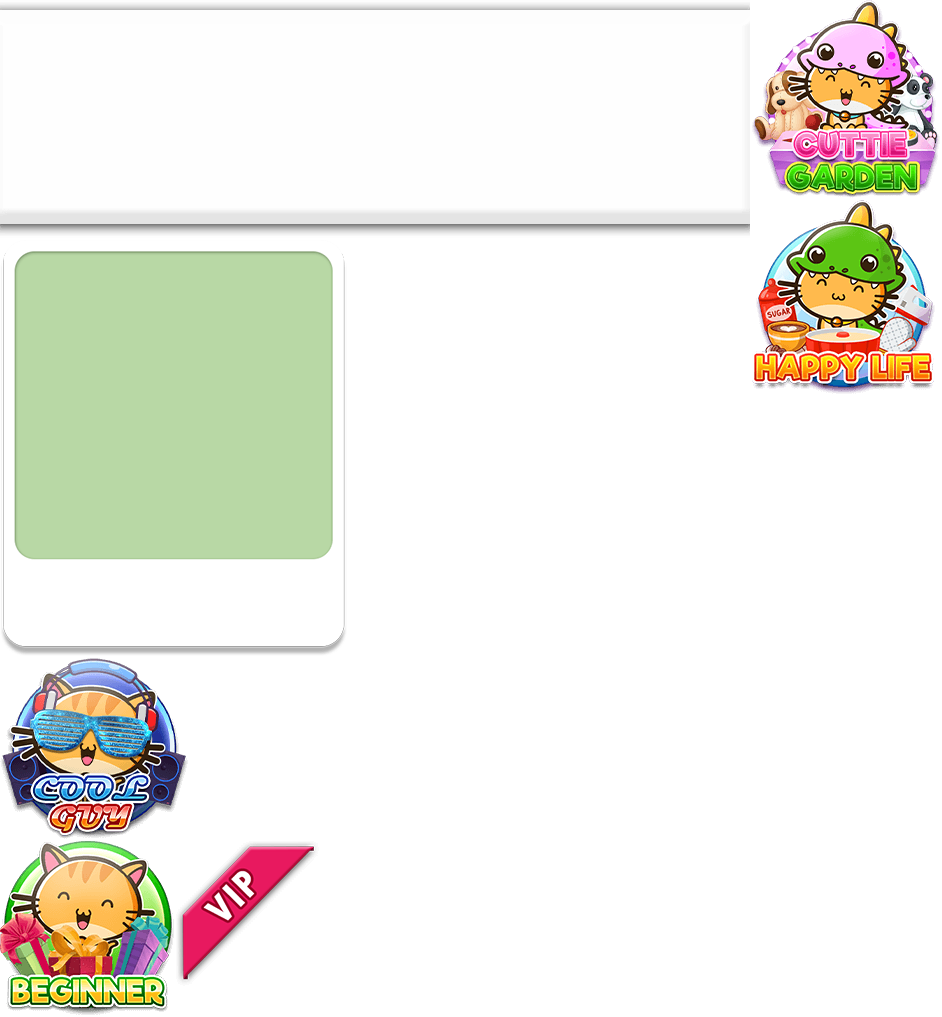
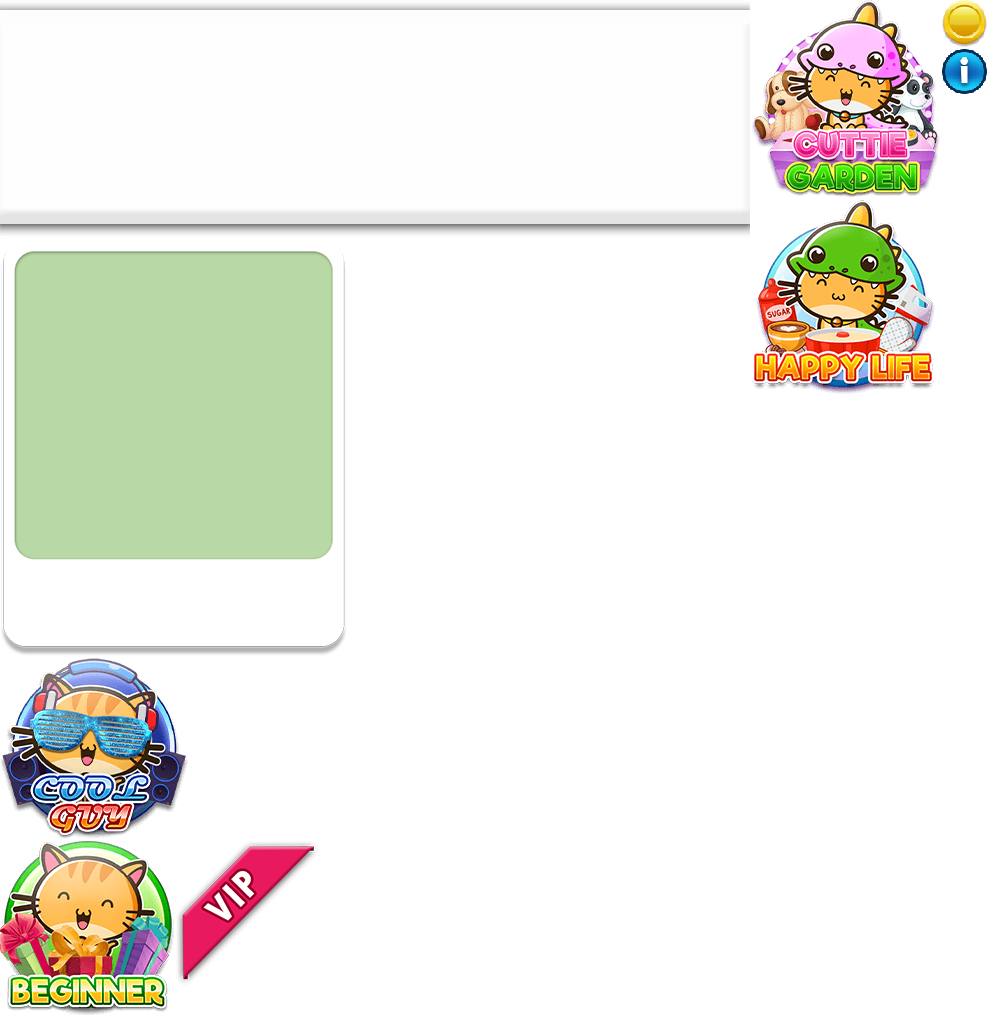
product list ui

diff --git a/src/siene/product-item/product-item.component.ts b/src/siene/product-item/product-item.component.ts
@@ -1,3 +1,4 @@
+import { Rectangle } from './../../geom/rectangle';
 import { UIFromParent } from './../UIFromParent';
 import { TextureData } from './../../pagePart/image/texture-data';
 import { BitmapData } from './../../pagePart/image/bitmap-data';
@@ -19,6 +20,15 @@ export class ProductItemComponent extends UIFromParent{
   productBg!: BitmapData;
   productImg: string = '';
   vipFlag!: BitmapData;
+  coinIcon!: BitmapData;
+  infoIcon!: BitmapData;
+
+  textColor: number = 0;
+  textSize: number = 28;
+  itemPrice: number = 0;
+  itemName: string = '';
+  priceRect: Rectangle = new Rectangle( 65, 365, 150, 28 );
+  nameRect: Rectangle = new Rectangle( 30, 325, 270, 28 );
 
   position: string = '';
 
@@ -29,7 +39,11 @@ export class ProductItemComponent extends UIFromParent{
   initUI(){
     this.productBg = this.textureData.getTexture( "bg0", 0, 0 );
     this.vipFlag = this.textureData.getTexture( "VIP_Subscript", -9, -11 );
+    this.coinIcon = this.textureData.getTexture( "icon_coin", 10, 355 );
+    this.infoIcon = this.textureData.getTexture( "btn_info", 292, 355 );
     this.productImg = this.itemData.img;
+    this.itemPrice = this.itemData.price;
+    this.itemName = this.itemData.name;
 
     this.position = `
       left: ${this.index % 2 * 365 + 22}px;

diff --git a/src/siene/product-item/product-item.component.html b/src/siene/product-item/product-item.component.html
@@ -4,4 +4,8 @@
       <img src={{itemData.img}} (click)="onItemClick(itemData)" width="320px" height="308px" class="productImage">、
     </div>
   <app-image [imgData]="vipFlag"></app-image>
+  <app-image [imgData]="coinIcon"></app-image>
+  <app-image [imgData]="infoIcon"></app-image>
+  <app-text-field [positionRect]="priceRect" [text]="''+itemPrice" [color]="textColor" [size]="textSize" [bold]="true"></app-text-field>
+  <app-text-field [positionRect]="nameRect" [text]="''+itemName" [color]="textColor" [size]="textSize" [bold]="true"></app-text-field>
 </div>

diff --git a/src/service/machine-data.ts b/src/service/machine-data.ts
@@ -6,5 +6,7 @@ export interface MachineData {
   rtc_url1: string,
   rtc_url2: string,
   good_id: number,
-  power: number
+  power: number,
+  price: number,
+  name: string
 }
